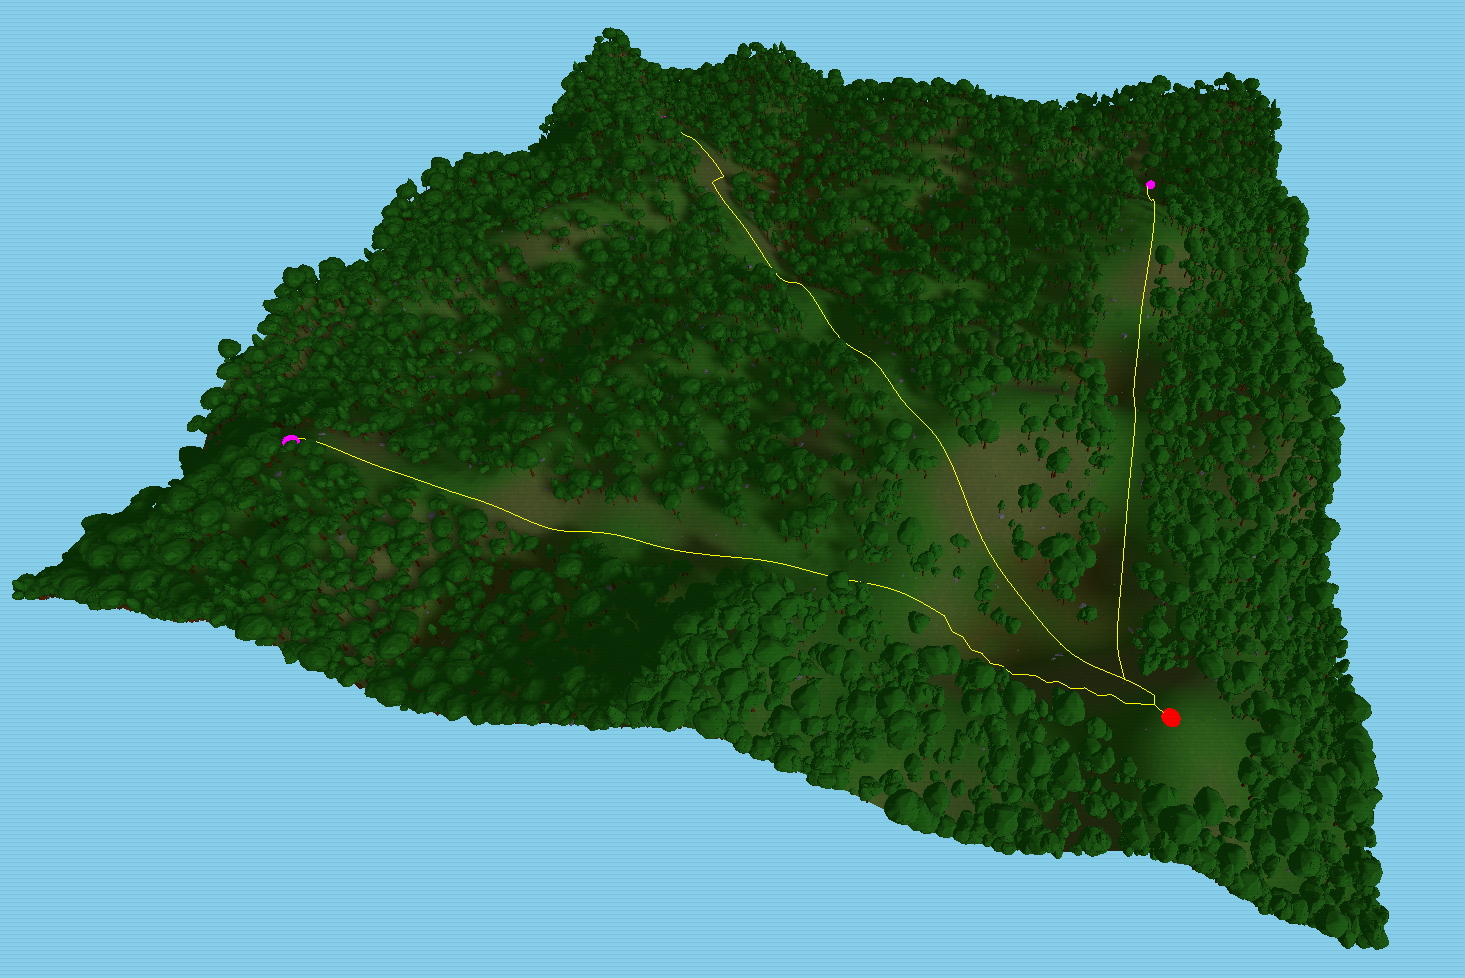
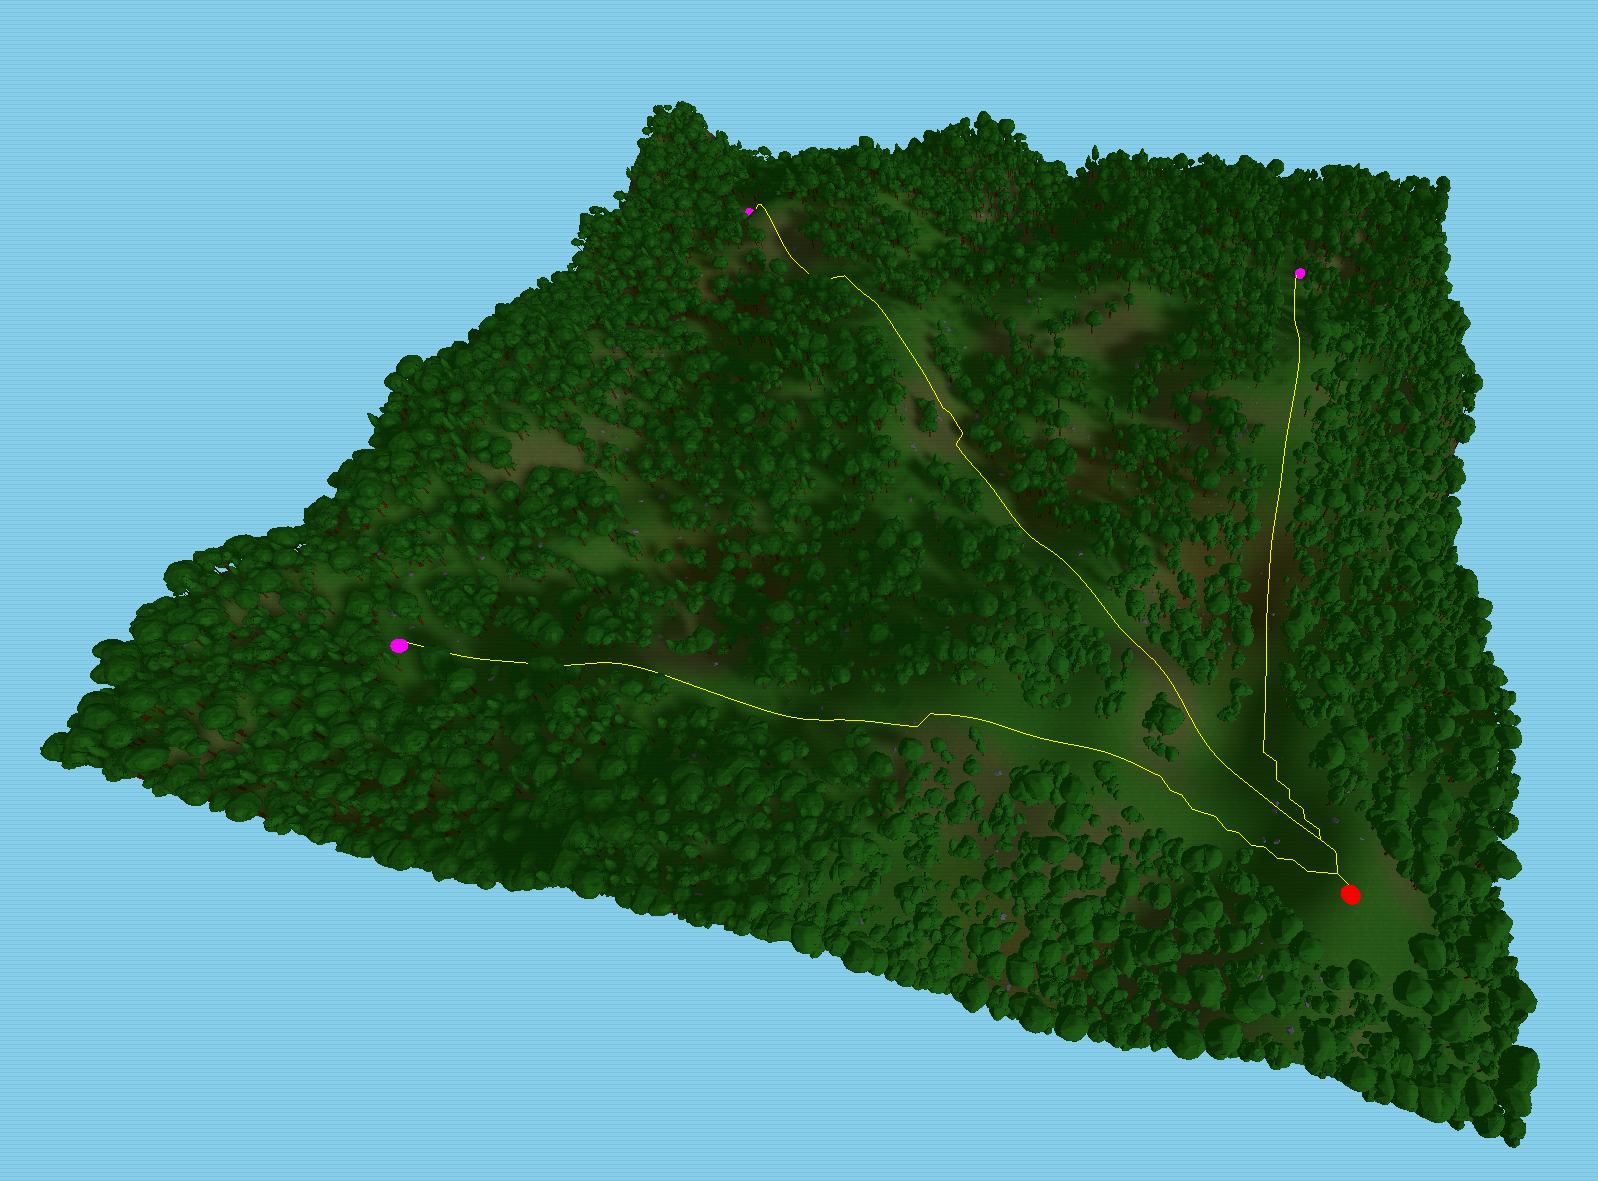
Small tweak in terrain.js, updated README, updated images

Changed region(s): [[0.0, 0.0307, 0.9829, 0.9816]]

diff --git a/src/core/terrain.js b/src/core/terrain.js
@@ -81,8 +81,8 @@ export class Terrain {
                 this.navMap      = new NavigationMap(this.size, this.cellSize);
             }
 
-            this._generateHeights();
-            this._applyVertexColors();
+            this.generateHeights();
+            this.applyVertexColors();
 
             this.geometry.attributes.position.needsUpdate = true;
             this.geometry.computeVertexNormals();
@@ -133,7 +133,7 @@ export class Terrain {
     }
 
     // Generate height values into the geometry and heights array
-    _generateHeights() {
+    generateHeights() {
         for (let i = 0; i < this.vertCount; i++) {
             const x = this.geometry.attributes.position.getX(i);
             const z = this.geometry.attributes.position.getZ(i);
@@ -152,7 +152,7 @@ export class Terrain {
     }
 
     // Vertex color variation to make our world look more alive
-    _applyVertexColors() {
+    applyVertexColors() {
         const colorBuffer    = new Float32Array(this.vertCount * 3);
         const colorNoise     = createNoise2D();
         const verticesPerRow = this.segments + 1;

diff --git a/README.md b/README.md
@@ -37,7 +37,7 @@ The map is different every run, generated from simplex noise before the match st
 
 ## The launcher
 
-The weapon is a 9M133 Kornet, a Russian anti-tank guided missile system. The model and all its textures were handmade in Blender, built from reference images to match the launcher's silhouette, proportions, and surface detail as closely as possible within a low-poly budget.
+The weapon is a 9M133 Kornet, a Russian anti-tank guided missile system. The model and all its textures were handmade in Blender, built from reference images to match the launcher's silhouette within a low-poly budget.
 
 <table width="100%"><tr>
   <td align="center"><img src="images/model.png" alt="In-game 3D model" width="100%" height="480" style="object-fit:cover"><br><sub>In-game model</sub></td>
@@ -62,9 +62,10 @@ The map is built from two octaves of simplex noise, quantized into discrete heig
 
 Every run is different. Size, frequency, and amplitude are exposed in the pre-game menu.
 
-<p align="center">
-  <img src="images/terrain.png" alt="Terrain generation" width="100%">
-</p>
+<table width="100%"><tr>
+  <td align="center" width="50%"><img src="images/terrain.png" alt="Terrain generation" width="100%"><br><sub>Procedurally generated terrain</sub></td>
+  <td align="center" width="50%"><img src="images/navmap.png" alt="Navigation map" width="100%"><br><sub>A* navigation grid overlay</sub></td>
+</tr></table>
 
 ---
 
@@ -89,7 +90,7 @@ The scene selector includes additional scenes for isolated testing:
 |:---|:---|
 | Terrain | Live sliders for size, frequency, amplitude, and clutter density. Navmap overlay toggle. |
 | Launcher | Full launcher controls, no terrain. Six tanks spawn at staggered distances. |
-| Tank | Single tank patrolling toward a fixed point, for hitbox and behavior inspection. |
+| Tank | Single tank in a fixed point, for hitbox and behavior inspection. |
 | TV | The intro TV prop in isolation. |
 | Model Viewer | Orbit any model. Cycles through all props, supports wireframe toggle and camera reset. |
 